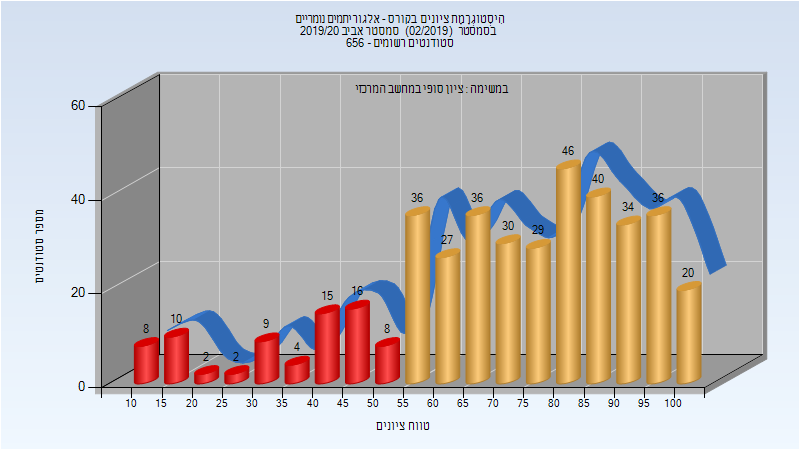
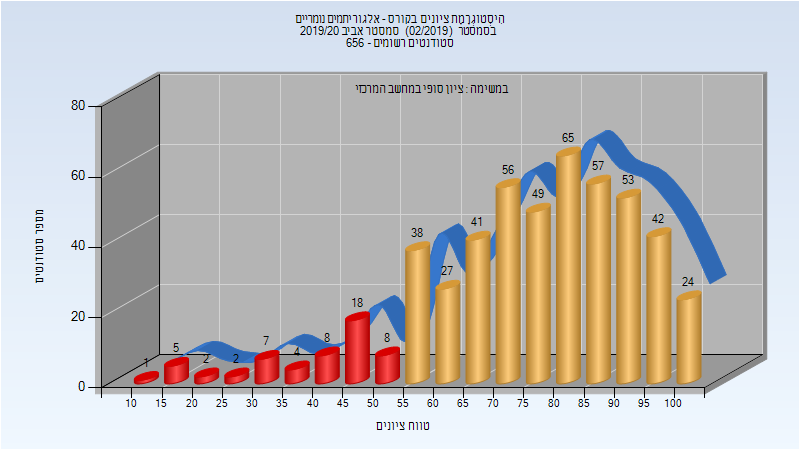
Deploy michael-maltsev/technion-histograms to github.com/michael-maltsev/technion-histograms.git:gh-pages

diff --git a/234125/index.html b/234125/index.html
@@ -257,13 +257,13 @@
 </thead>
 <tbody>
 <tr>
-<td>408</td>
-<td>334/74</td>
-<td>82</td>
+<td>507</td>
+<td>452/55</td>
+<td>89</td>
 <td>10</td>
 <td>100</td>
-<td>71.017</td>
-<td>75</td>
+<td>75.241</td>
+<td>77</td>
 </tr>
 </tbody>
 </table>

diff --git a/234218/index.html b/234218/index.html
@@ -577,12 +577,12 @@
 <tbody>
 <tr>
 <td>273</td>
-<td>214/59</td>
-<td>78</td>
+<td>218/55</td>
+<td>80</td>
 <td>31</td>
 <td>100</td>
-<td>71.161</td>
-<td>74</td>
+<td>72.066</td>
+<td>75</td>
 </tr>
 </tbody>
 </table>

diff --git a/234218/README.md b/234218/README.md
@@ -196,5 +196,5 @@
 
 | סטודנטים | עברו/נכשלו | אחוז עוברים | ציון מינימלי | ציון מקסימלי | ממוצע | חציון |
 | ---- | ---- | ---- | ---- | ---- | ---- | ---- |
-| 273 | 214/59 | 78 | 31 | 100 | 71.161 | 74 |
+| 273 | 218/55 | 80 | 31 | 100 | 72.066 | 75 |
 

diff --git a/234125/README.md b/234125/README.md
@@ -82,5 +82,5 @@
 
 | סטודנטים | עברו/נכשלו | אחוז עוברים | ציון מינימלי | ציון מקסימלי | ממוצע | חציון |
 | ---- | ---- | ---- | ---- | ---- | ---- | ---- |
-| 408 | 334/74 | 82 | 10 | 100 | 71.017 | 75 |
+| 507 | 452/55 | 89 | 10 | 100 | 75.241 | 77 |
 
